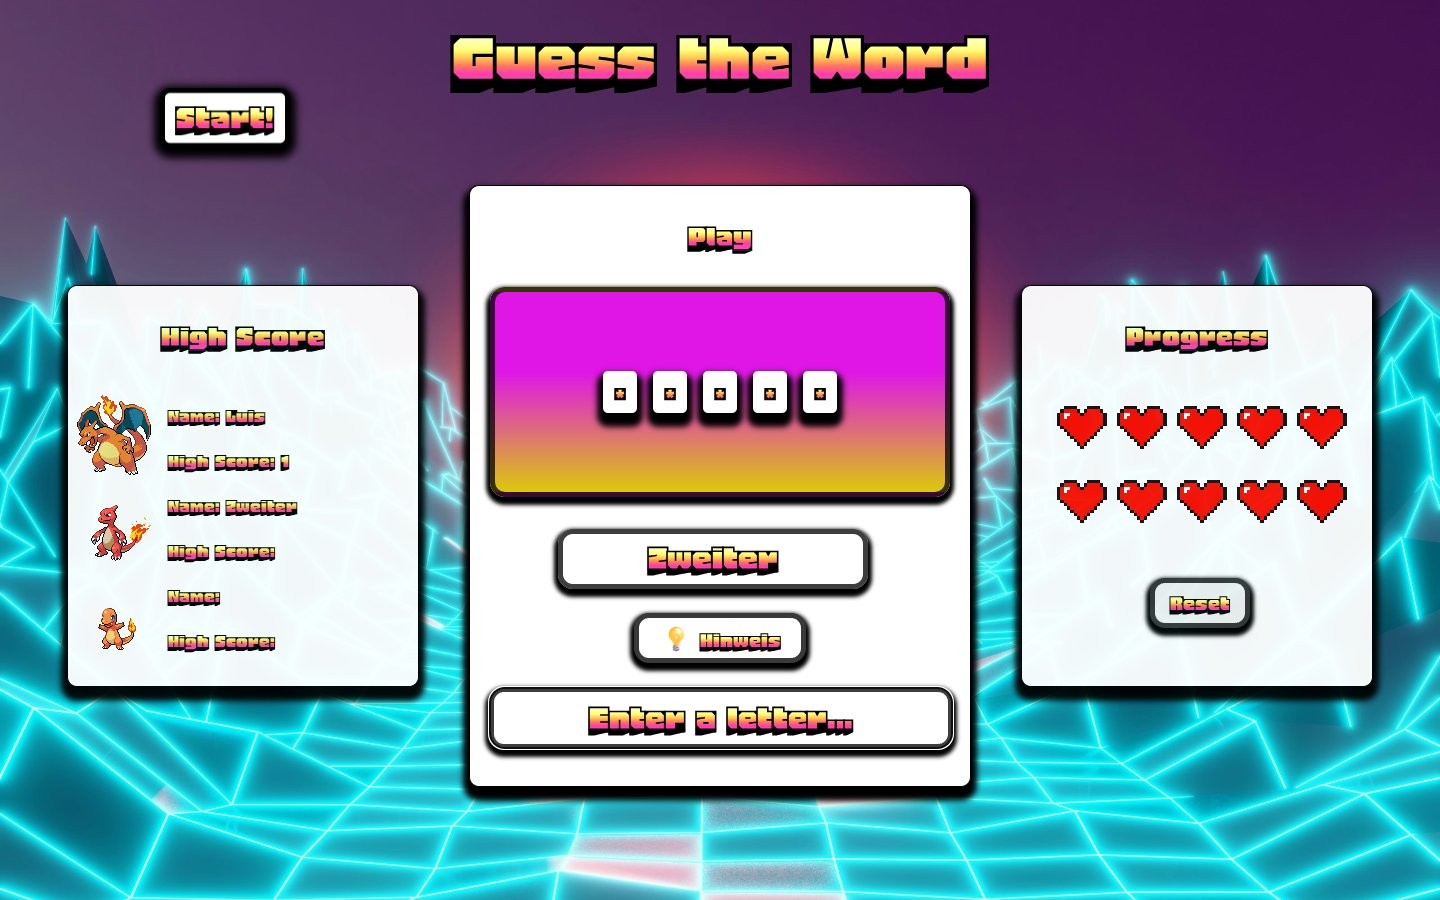
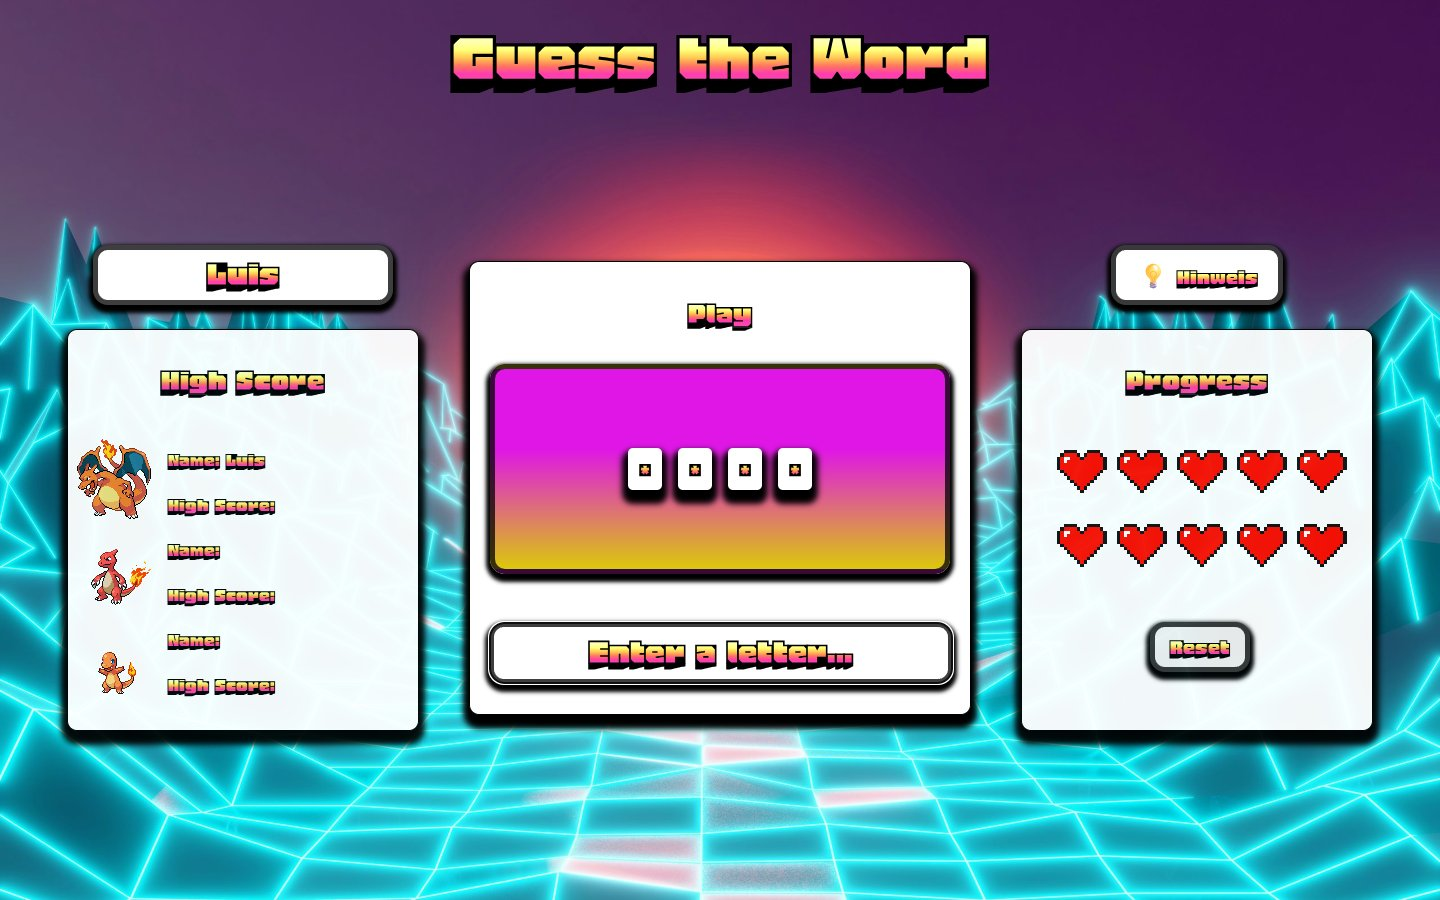
Start-Button ins Namensfenster, Name und Hinweis neben das Spielfeld
- Start-Button sitzt jetzt im Anleitungsfenster: Name eingeben und
  "Start!" klicken oder Enter drücken startet das Spiel direkt
- Leerer Name wird rot markiert statt per Browser-alert gemeldet
- Spielername über dem High-Score-Feld, Hinweis-Button über dem
  Progress-Feld, Spielfeld enthält nur noch Wort und Eingabe
- Ungenutzten Code entfernt (closeOverlay, buttonClicked)
- README-Screenshot aktualisiert

diff --git a/index.js b/index.js
@@ -16,74 +16,62 @@ document.addEventListener("DOMContentLoaded", function() {
     document.getElementById('endSequenz').style.display = 'none';
 
     let nameCount = 0; // Zählvariable für die Anzahl der erstellten Namen
-    var button = false;
 
     var nameField = document.getElementById('nameField');
     var anzeigeBuchstaben = document.querySelector('.anzeigeNamen');
-    var button = document.getElementById("closeButton");
-    var buttonClicked = false; // Initialer Zustand des Buttons: nicht geklickt
 
-        // Füge einen Event-Listener für den Button hinzu
-    button.addEventListener("click", function() {
-        // Setze den Zustand von buttonClicked auf true, wenn der Button geklickt wurde
-            buttonClicked = true;
-            console.log("Button wurde geklickt.");
-            let name = nameField.value.trim(); // Hole den eingegebenen Namen
-            Names.push(name); // Füge den Namen zur Liste hinzu
-            nameCount++; // Erhöhe die Anzahl der Namen um eins
-            // Aktualisiere die Anzeige im ".anzeigeNamen" Element
-            anzeigeBuchstaben.textContent = name;
-            if (nameCount === 1) {
-                document.getElementById("name1").innerHTML = `Name: ${Names[0]}`;
-            } else if (nameCount === 2) {
-                document.getElementById("name2").innerHTML = `Name: ${Names[1]}`;
-            } else {
-                document.getElementById("name3").innerHTML = `Name: ${Names[2]}`;
-            }
-            console.log(Names);    
-    });
+    // Start-Button im Anleitungsfenster: Namen übernehmen und direkt das Spiel starten
+    function starteSpiel() {
+        let name = nameField.value.trim(); // Hole den eingegebenen Namen
 
-    // Aufrufen des Wortes nachdem der Start button gedrückt wurde oder das Wort erraten wurde und input in Disyplay setzen
-    document.getElementById('startButton').addEventListener('click', function () {
+        // Ohne Namen geht es nicht los – Eingabefeld rot markieren
+        if (name === "") {
+            nameField.classList.add('fehlt');
+            nameField.focus();
+            return;
+        }
+        nameField.classList.remove('fehlt');
+
+        Names.push(name); // Füge den Namen zur Liste hinzu
+        nameCount++; // Erhöhe die Anzahl der Namen um eins
+        // Aktualisiere die Anzeige im ".anzeigeNamen" Element
+        anzeigeBuchstaben.textContent = name;
+        if (nameCount === 1) {
+            document.getElementById("name1").innerHTML = `Name: ${Names[0]}`;
+        } else if (nameCount === 2) {
+            document.getElementById("name2").innerHTML = `Name: ${Names[1]}`;
+        } else {
+            document.getElementById("name3").innerHTML = `Name: ${Names[2]}`;
+        }
+        console.log(Names);
+
+        document.querySelector('.overlay').style.display = 'none';
+
         let audio = new Audio ('sounds/mixkit-player-select-notification-2037.mp3');
         audio.play()
-        Wort = zufälligesWort();
-        console.log(Wort);
-        
-        Lives = 10; 
+
+        Lives = 10;
         highScore = 0;
 
-        console.log("Leben: " + Lives)
-        console.log("HighScore: " + highScore)
-        
-        // Schleife zum Erstellen der input-Elemente für jeden Buchstaben des zufälligen Wortes
-        for (let i = 0; i < Wort.length; i++) {
-            // Neues input-Element erstellen
-            let inputElement = document.createElement("input");
+        // Zufälliges Wort wählen und als verdeckte Felder anzeigen
+        document.querySelector('.anzeige').innerHTML = '';
+        Wort = zufälligesWort();
+        console.log(Wort);
+        appendWortToScreen(Wort);
+    }
 
-            // Attribute zuweisen
-            inputElement.setAttribute("type", "password"); // Password um die Eingabe von Buchstaben zu verbergen
-            inputElement.setAttribute("id", "wordInput" + i); // ID anpassen, um eindeutige IDs zu erhalten
-            inputElement.setAttribute("class", "word");
-            inputElement.setAttribute("disabled", "true");
-            inputElement.value = Wort[i]; // Buchstabe als Wert einfügen
+    document.getElementById('startButton').addEventListener('click', starteSpiel);
 
-            // Stileigenschaften zuweisen
-            inputElement.style.boxShadow = "0 8px 6px 6px #000";
-            inputElement.style.borderRadius = "5px";
-            inputElement.style.border = "none";
-            inputElement.style.backgroundColor = "white";
-            inputElement.style.height = "40px";
-            inputElement.style.width = "30px";
-            inputElement.style.marginLeft = "0.5rem";
-            inputElement.style.marginRight = "0.5rem";
-            inputElement.style.fontFamily = "'Honk'";
-            inputElement.style.textAlign = "center";
-            inputElement.style.fontSize = "35px";
+    // Rote Markierung verschwindet, sobald ein Name getippt wird
+    nameField.addEventListener('input', function() {
+        nameField.classList.remove('fehlt');
+    });
 
-            // Element zur Anzeige hinzufügen
-            document.querySelector('.anzeige').appendChild(inputElement);
-        } 
+    // Enter im Namensfeld startet ebenfalls das Spiel
+    nameField.addEventListener('keydown', function(event) {
+        if (event.key === 'Enter') {
+            starteSpiel();
+        }
     });
     
 

diff --git a/index.html b/index.html
@@ -20,15 +20,13 @@
     <!-- Überschrift der Website -->
     <h1 class="header">Guess the Word</h1>
 
-    <button id="startButton" class="startButton">Start!</button>
-
     <!-- Popup Overlay -->
     <div id="overlay" class="overlay">
         <div class="popup">
             <h2>Anleitung</h2>
             <p>Willkommen beim "Guess the Word" Spiel! Das Spiel besteht darin, ein geheimes Wort zu erraten, indem du Buchstaben eingibst. Der Spielbereich zeigt das zu erratende Wort an, wobei jedes leere Feld einen Buchstaben repräsentiert. Gib deine Vermutungen in den Eingabebereich ein, aber achte darauf, deine Versuche klug zu nutzen, da jede falsche Vermutung ein Herz kostet. Der Highscore-Bereich zeigt eine Liste der Spieler mit den höchsten Punktzahlen. Gib einfach deinen Namen unten ein, klicke dann auf "Start!", um das Spiel zu beginnen. Hinweis: Um auf den ersten Platz zu stehen musst du immer ein Wort mehr erraten, als der jetzige Spitzenreiter.<b> Viel Spaß beim Raten und viel Glück!</b></p>
             <input type="text" placeholder="Name eingeben..." id="nameField" class="nameField">
-            <button onclick="closeOverlay()" id="closeButton">Schließen</button>
+            <button id="startButton">Start!</button>
         </div>
     </div>
 
@@ -53,6 +51,12 @@
 
     <!-- Container für die ganze Spiel-Umgebung -->
     <div class="container">
+
+        <!-- Linke Spalte: Spielername über dem High Score -->
+        <div class="seitenSpalte">
+
+        <!-- Anzeige für den Spielernamen -->
+        <div class="anzeigeNamen"></div>
 
         <!-- highScore am linken Rand -->
         <div class="highScore" id="highScore">
@@ -84,6 +88,7 @@
             </div>
 
         </div>
+        </div>
 
         <!-- gameArea in der Mitte des OnePagers -->
         <div class="gameArea" id="gameArea">
@@ -92,18 +97,18 @@
             <!-- Display Anzeige für Buchstaben -->
             <div class="anzeige"></div>
 
-            <!-- Anzeige für den Spielernamen -->
-            <div class="anzeigeNamen"></div>
-
-            <!-- Button um den Hinweis erneut anzuzeigen -->
-            <button class="hinweisButton" id="hinweisButton" disabled>💡 Hinweis</button>
-
             <!-- Input Feld für den User um Buchstaben einzugeben -->
             <div>
                 <input class="input" placeholder="Enter a letter..." maxlength="1" id="input">
             </div>
         </div>
     
+        <!-- Rechte Spalte: Hinweis-Button über dem Fortschritt -->
+        <div class="seitenSpalte">
+
+        <!-- Button um den Hinweis erneut anzuzeigen -->
+        <button class="hinweisButton" id="hinweisButton" disabled>💡 Hinweis</button>
+
         <!-- prograssArea am rechte  Rand  -->
         <div class="progressArea" id="progressArea">
             <h2>Progress</h2>
@@ -127,6 +132,7 @@
             <!-- Reset Buttun um das Spiel neu zu Starten -->
             <button class="resetButton" id="resetButton">Reset</button>
 
+        </div>
         </div>
     </div>
     

diff --git a/index.css b/index.css
@@ -79,6 +79,12 @@ h2 {
     font-size: larger;
 }
 
+/* Kein Name eingegeben */
+.nameField.fehlt {
+    box-shadow: 0 0 0 3px red;
+    border-radius: 5px;
+}
+
 .popup button {
     margin-top: 10px;
     width: 100px;
@@ -109,13 +115,25 @@ h2 {
     color: black;
 }
 
+/* Seitenspalten links und rechts neben dem Spielfeld */
+.seitenSpalte {
+    display: flex;
+    flex-direction: column;
+    align-items: center;
+    gap: 1.5rem;
+}
+
+.seitenSpalte + .gameArea,
+.gameArea + .seitenSpalte {
+    margin-left: 50px;
+}
+
 /* Game Area in der Mitte */
 .gameArea {
-    height: 600px;
+    padding-bottom: 30px;
     width: 500px;
     border: solid black 1px;
     border-radius: 10px;
-    margin-left: 50px; 
     box-shadow: 0 8px 6px 6px #000;
     background-color: white;
 }
@@ -146,17 +164,23 @@ h2 {
 }
 
 .anzeigeNamen {
+    box-sizing: border-box;
     width: 300px;
-    height: 50px; 
+    height: 60px; 
     border: solid #070707c6 5px;
     box-shadow: 0 4px 4px 4px #000;
     border-radius: 15px;
-    margin-left: 5.5rem;
-    margin-top: 2rem;
+    background-color: white;
     font-family: 'Honk';
     text-align: center;
-    justify-content: center;
     font-size: 40px;
+    line-height: 50px;
+    overflow: hidden;
+}
+
+/* Vor dem Spielstart unsichtbar, Platz bleibt aber reserviert */
+.anzeigeNamen:empty {
+    visibility: hidden;
 }
 
 .input {
@@ -167,7 +191,7 @@ h2 {
     box-shadow: 0 4px 4px 4px #000;
     border-radius: 15px;
     margin-left: 1.2rem;
-    margin-top: 1.5rem;
+    margin-top: 3rem;
     text-align: center;
     justify-content: center;
     font-size: 40px;
@@ -236,31 +260,6 @@ h2 {
     margin-left: 20px; /* Abstand zwischen Namen und Punkten */
 }
 
-/* Start Button */
-.startButton {
-    border: solid black 5px;
-    border-radius: 10px;
-    display: flex;
-    box-shadow: 0 4px 8px 6px #000; 
-    justify-content: center;
-    width: 130px;
-    height: 60px;
-    background-color: white;
-    font-family: "Honk";
-    font-size: 40px;
-    margin-left: 10rem;
-    margin-bottom: -7rem;
-    transition: transform 0.4s ease;
-    position: relative;
-    z-index: 1; /* Liegt über dem Container, sonst ist die obere Hälfte nicht klickbar */
-}
-
-.startButton:hover {
-    box-shadow: 0 4px 6px 6px rgb(22, 223, 230);
-    cursor: pointer;
-    transform: scale(1.1);
-}
-
 /* Progress Area rechts */
 .progressArea {
     opacity: 0.95;
@@ -268,7 +267,6 @@ h2 {
     width: 350px;
     border: solid rgb(0, 0, 0) 1px; 
     border-radius: 10px;
-    margin-left: 50px; 
     box-shadow: 0 8px 6px 6px #000;
     background-color: white;
 }
@@ -328,14 +326,12 @@ h2 {
     transform: scale(1.1);
 }
 
-/* Hinweis-Button im Spielfeld */
+/* Hinweis-Button über dem Fortschritt */
 .hinweisButton {
-    display: block;
-    margin: 1.5rem auto 0;
     border: solid #000000c6 5px;
     box-shadow: 0 4px 4px 4px #000;
     border-radius: 15px;
-    height: 50px;
+    height: 60px;
     padding: 0 20px;
     background-color: white;
     font-family: "Honk";

diff --git a/functions.js b/functions.js
@@ -5,16 +5,6 @@ window.onload = function() {
     document.querySelector('.overlay').style.display = 'flex';
 };
 
-// Funktion, um das Overlay zu schließen, wenn ein Name eingegeben wurde
-function closeOverlay() {
-    var name = document.getElementById('nameField').value;
-    if (name !== "") {
-        document.querySelector('.overlay').style.display = 'none';
-    } else {
-        alert("Bitte geben Sie einen Namen ein.");
-    }
-}
-
 function closeEnd (){
     document.querySelector('.endSequenz').style.display = 'none';
     resetGame();
@@ -271,13 +261,3 @@ async function fetchData3 (){
         console.log(error);
     }
 }
-
-// Funktion, die überprüft, ob der Button true zurückgibt
-function buttonClicked() {
-    if (document.getElementById('closeButton').click === true) { 
-        return true; // Beispiel: Gib true zurück, wenn der Button geklickt wurde
-    } 
-    else {
-        return false; // Beispiel: Gib false zurück, wenn der Button nicht geklickt wurde
-    }
-};
